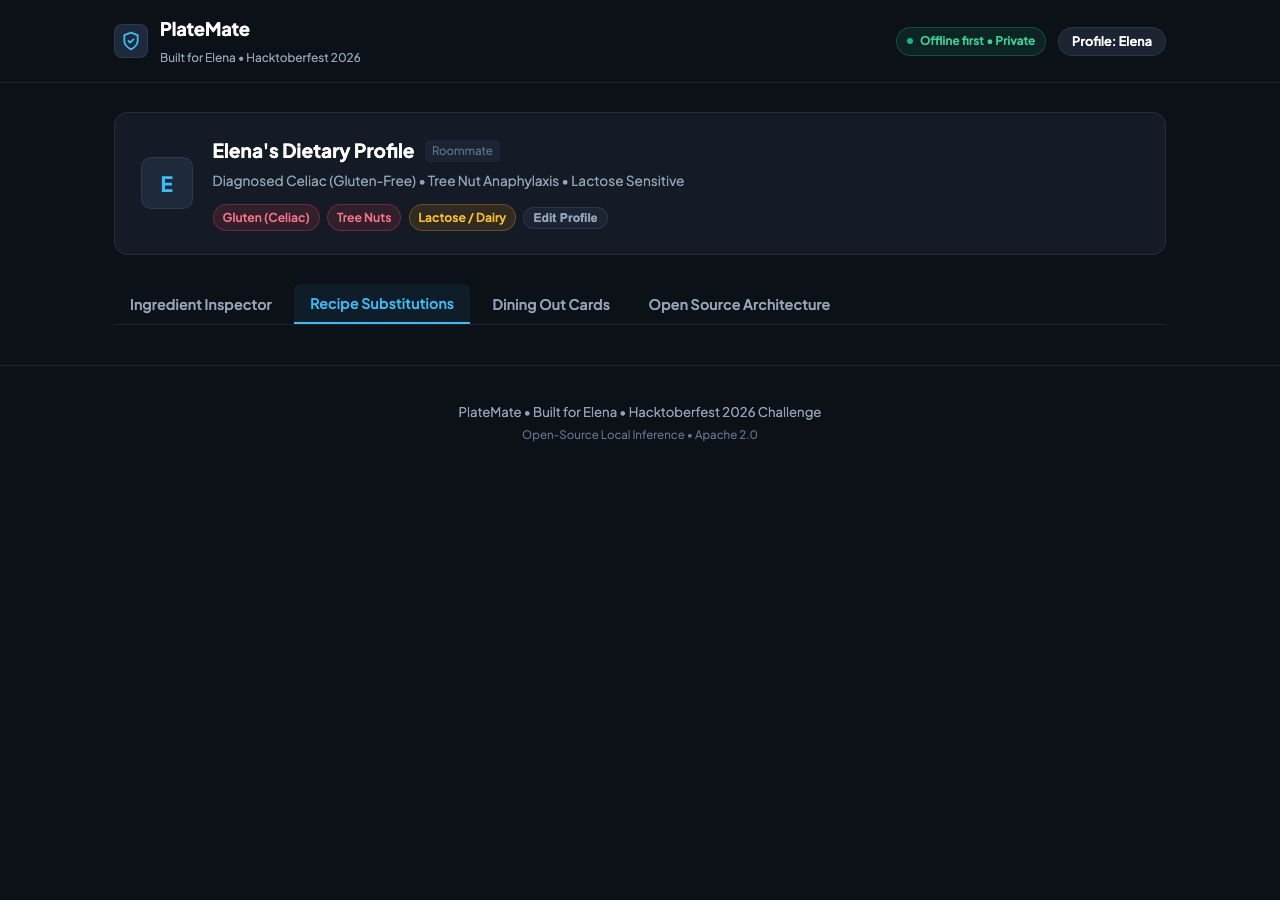
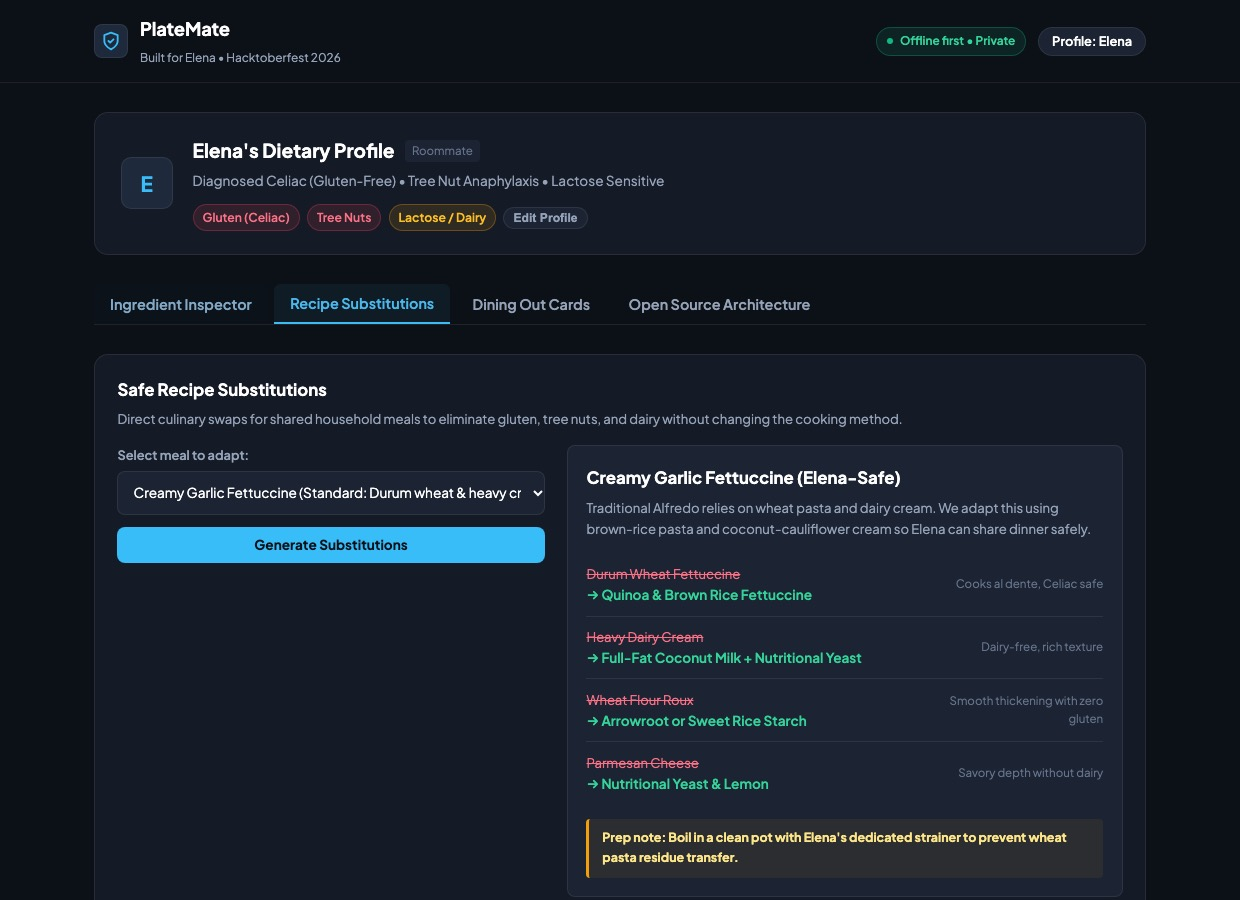
Fix tab display and update high-res browser screenshots for scanner and recipes

diff --git a/app.js b/app.js
@@ -262,6 +262,33 @@ document.addEventListener('DOMContentLoaded', () => {
   renderRecipeSwap('creamy_pasta');
   renderChefCard('en');
   initOpenAIModel();
+
+  // Handle URL query parameters for automated screenshots
+  const params = new URLSearchParams(window.location.search);
+  const sampleKey = params.get('sample');
+  const tabKey = params.get('tab');
+  const langKey = params.get('lang');
+
+  if (tabKey) {
+    DOM.tabLinks.forEach(b => b.classList.remove('active'));
+    DOM.tabPanes.forEach(p => p.classList.remove('active'));
+    const targetTab = document.querySelector(`.tab-link[data-tab="${tabKey}"]`);
+    const targetPane = document.getElementById(`pane-${tabKey}`);
+    if (targetTab && targetPane) {
+      targetTab.classList.add('active');
+      targetPane.classList.add('active');
+    }
+  }
+
+  if (langKey) {
+    renderChefCard(langKey);
+  }
+
+  if (sampleKey && SAMPLE_PRESETS[sampleKey]) {
+    DOM.ingredientInput.value = SAMPLE_PRESETS[sampleKey];
+    DOM.charCount.textContent = `${SAMPLE_PRESETS[sampleKey].length} characters`;
+    runCheck(SAMPLE_PRESETS[sampleKey]);
+  }
 });
 
 function setupNavigation() {

diff --git a/index.html b/index.html
@@ -168,7 +168,7 @@
     </section>
 
     <!-- TAB 2: RECIPE SWAPPER -->
-    <section class="tab-pane hidden" id="pane-substitutions">
+    <section class="tab-pane" id="pane-substitutions">
       <div class="card">
         <div class="box-head">
           <h3>Safe Recipe Substitutions</h3>
@@ -197,7 +197,7 @@
     </section>
 
     <!-- TAB 3: CHEF CARDS -->
-    <section class="tab-pane hidden" id="pane-chefcards">
+    <section class="tab-pane" id="pane-chefcards">
       <div class="card">
         <div class="card-top-flex">
           <div>
@@ -251,7 +251,7 @@
     </section>
 
     <!-- TAB 4: ARCHITECTURE & OPEN SOURCE -->
-    <section class="tab-pane hidden" id="pane-openinnovation">
+    <section class="tab-pane" id="pane-openinnovation">
       <div class="card">
         <div class="box-head">
           <h3>Open Source Implementation</h3>
